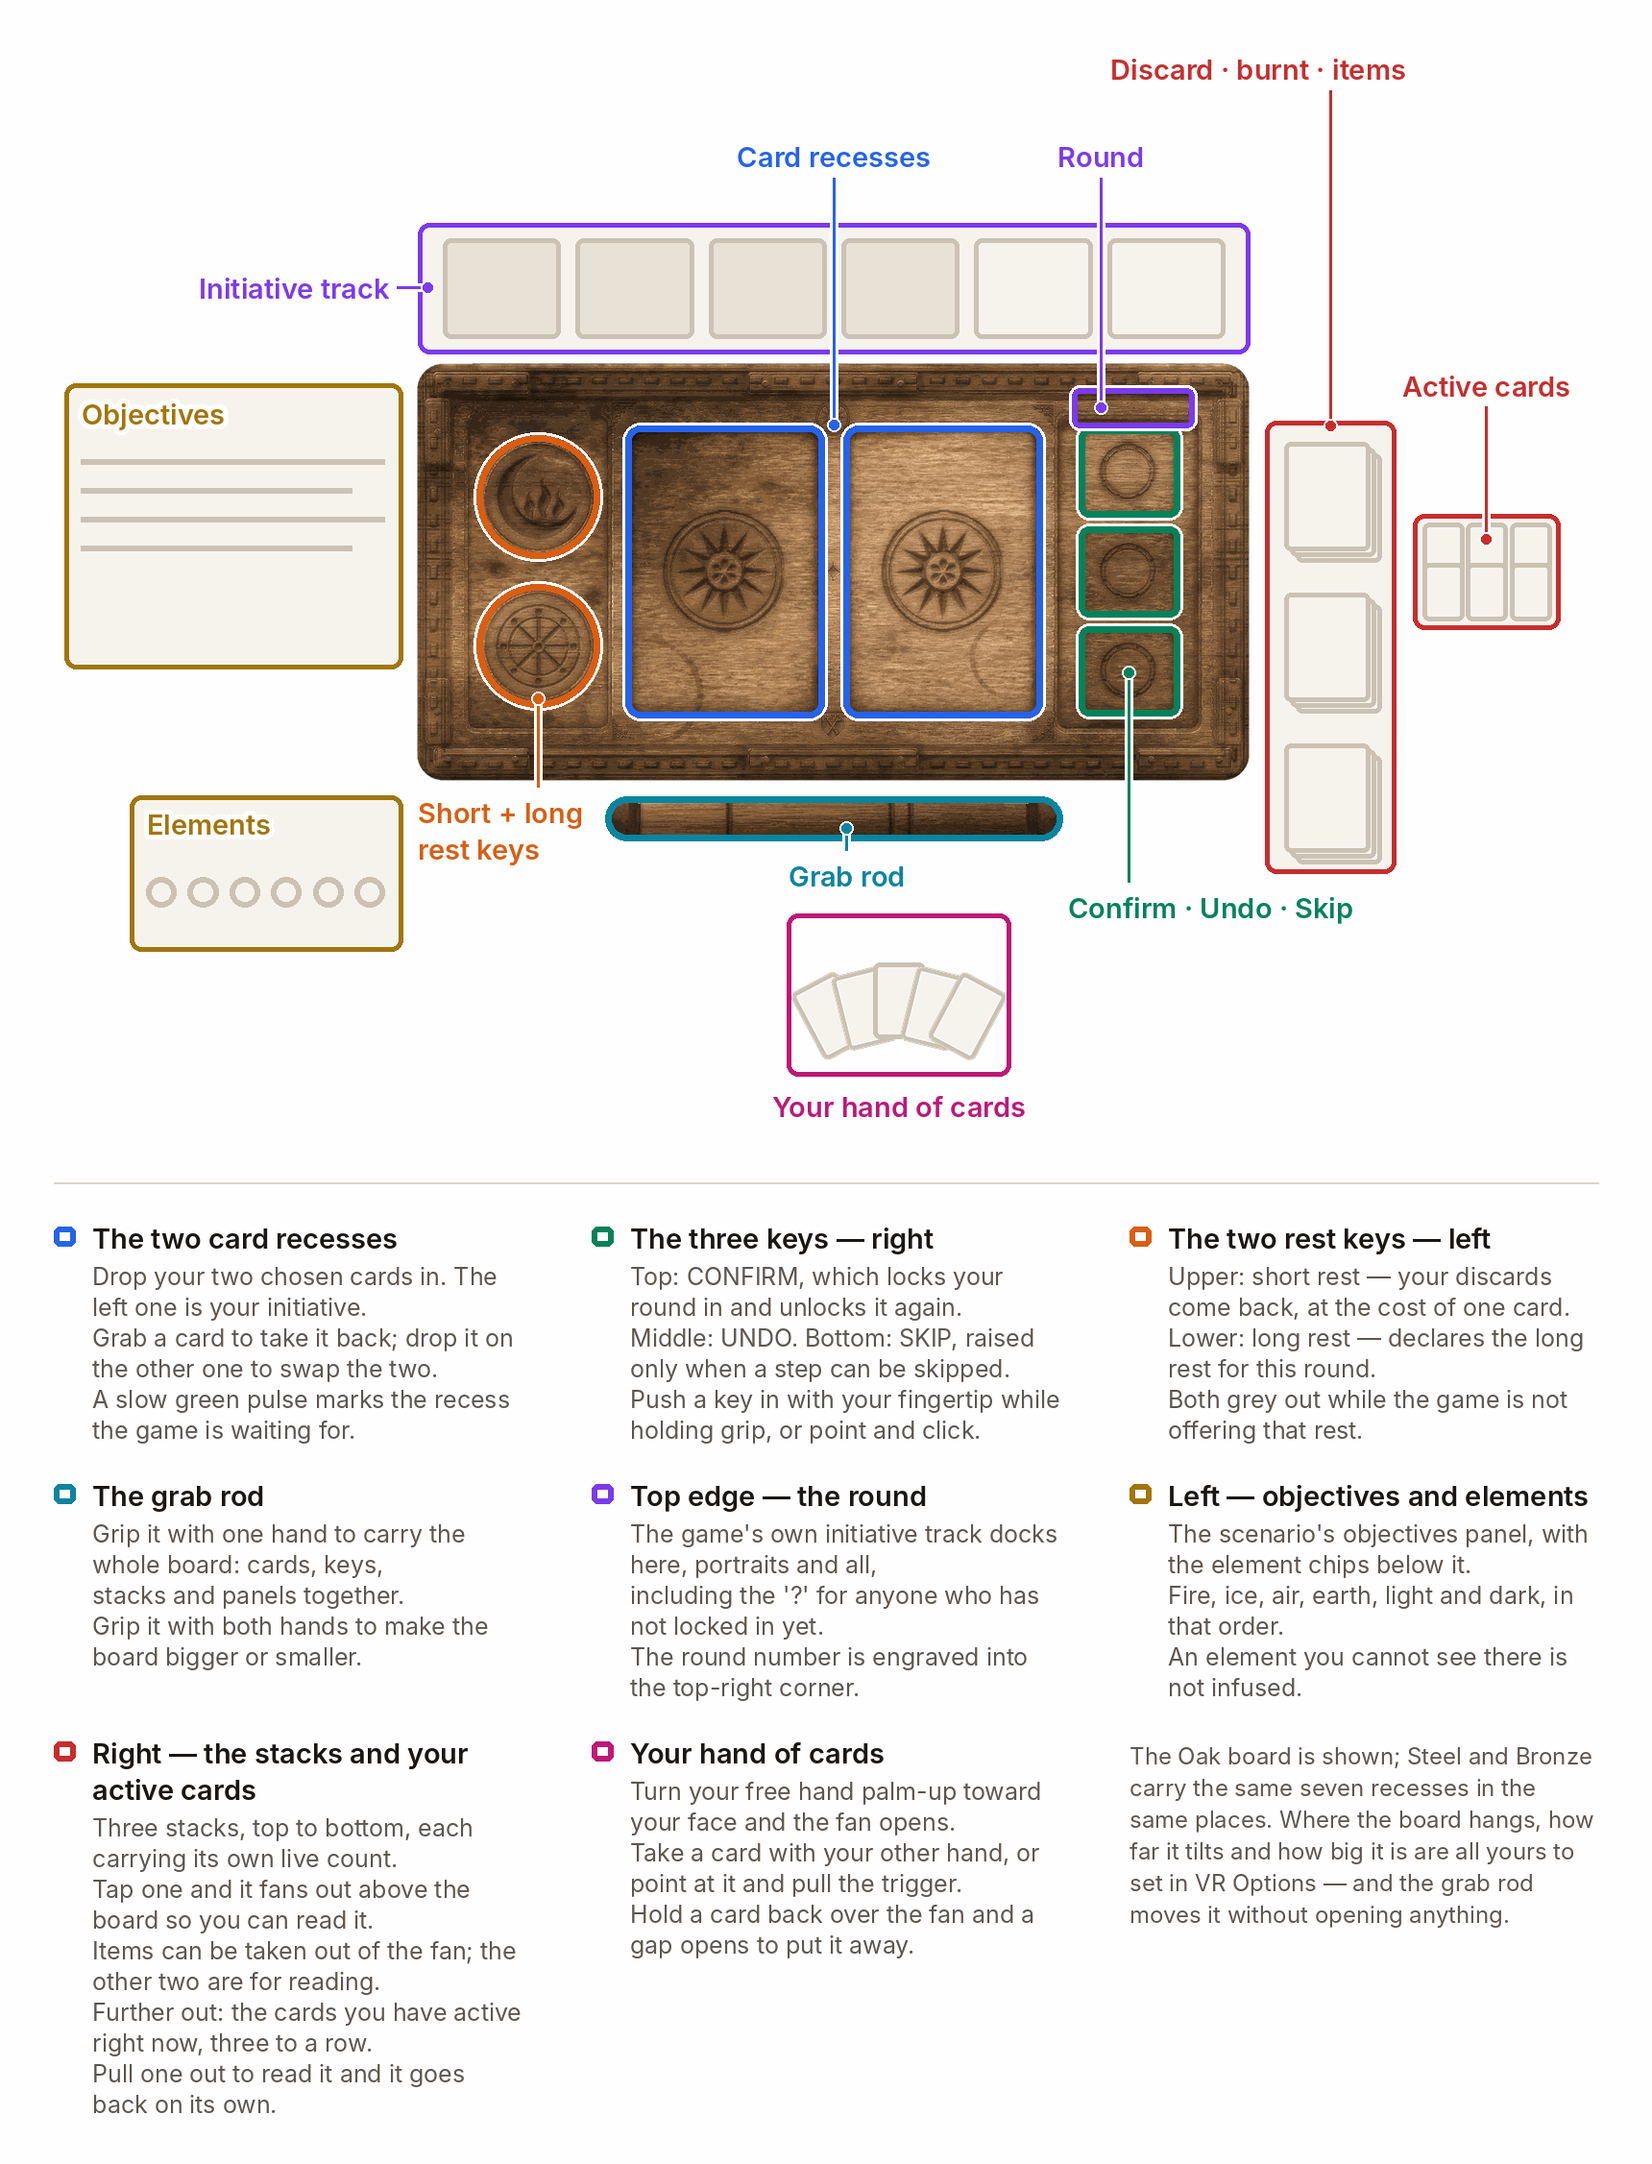
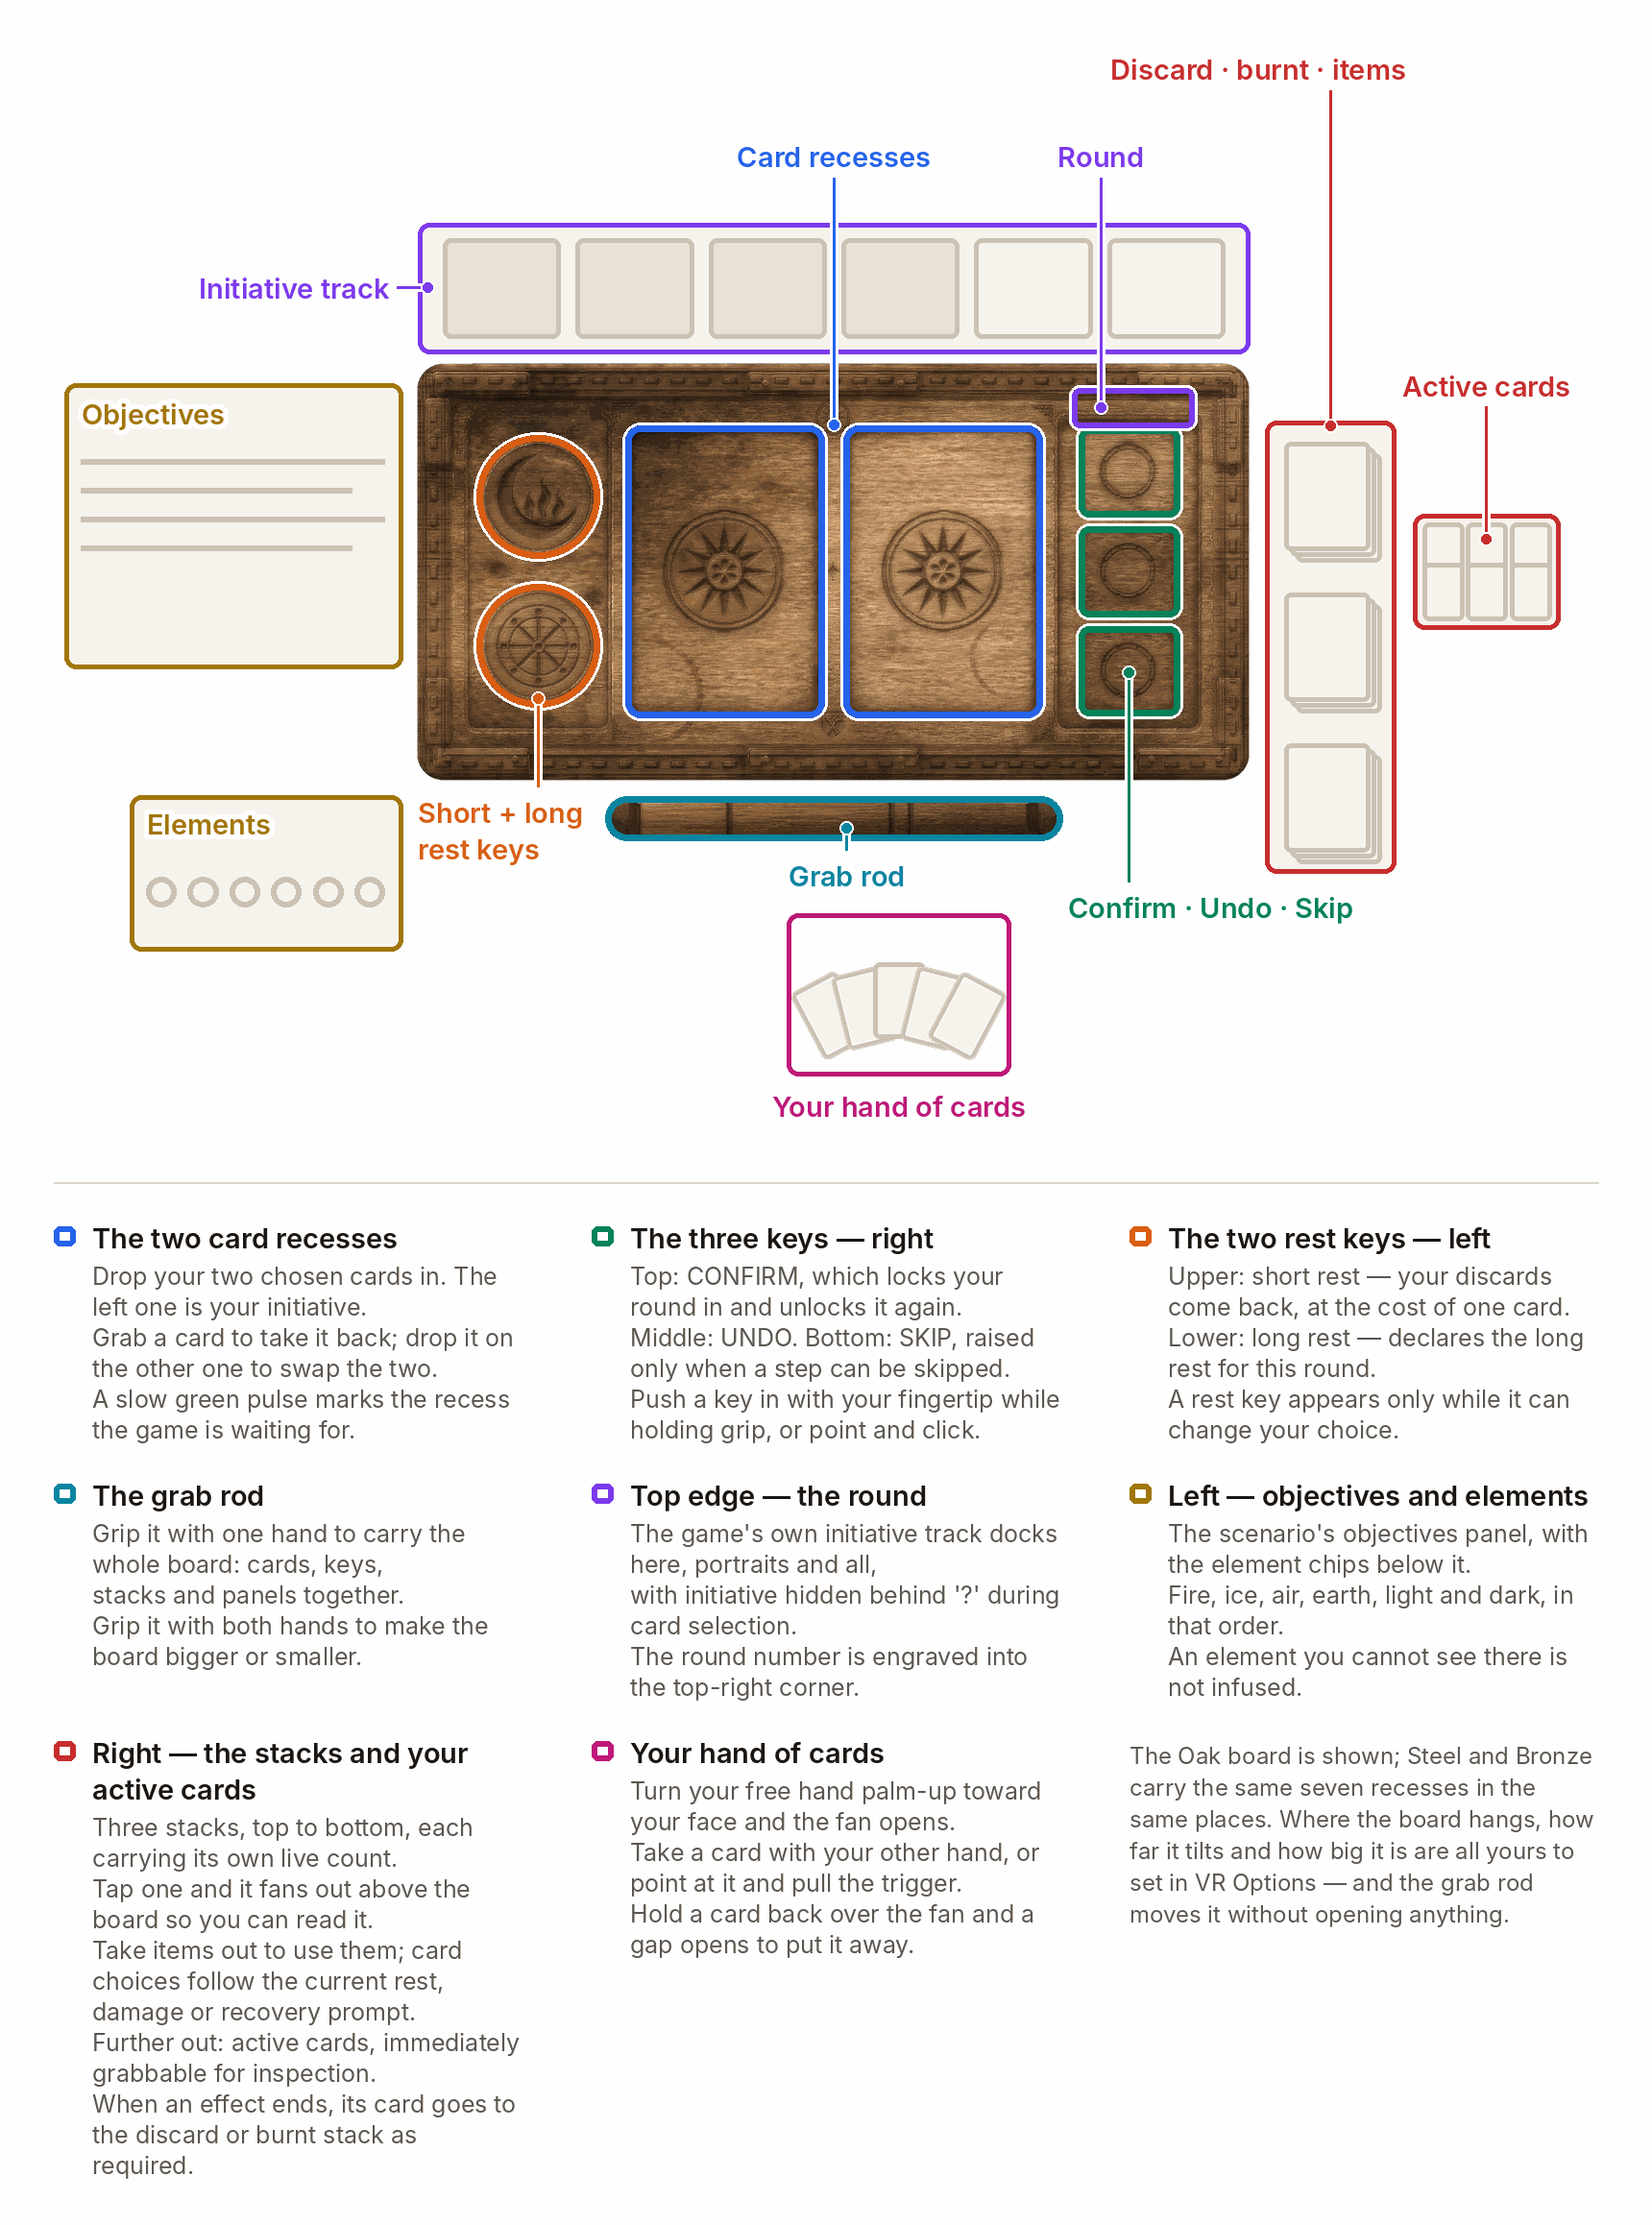
docs: refresh board diagram rest and card lifecycle captions
Rest buttons appear only while usable; active cards can be inspected immediately and leave for the correct pile when effects end. Describe prompt-driven rest, damage and recovery choices, and stable hidden initiative during selection. EN/DE geometry preflight, visual inspection, repeat-generation consistency and docs i18n check pass.

diff --git a/docs/img/build-board-diagram.py b/docs/img/build-board-diagram.py
@@ -454,11 +454,11 @@ LABELS = {
                 "Middle: UNDO. Bottom: SKIP, raised only when a step can be skipped.",
                 "Push a key in with your fingertip while holding grip, or point and click.",
             ]),
-            # Cards/Caps/RestControls.cs:6-30 and :83-200.
+            # RestControls.Update: visibility is offered && canShort/canLong, not disabled styling.
             (ORANGE, "The two rest keys — left", [
                 "Upper: short rest — your discards come back, at the cost of one card.",
                 "Lower: long rest — declares the long rest for this round.",
-                "Both grey out while the game is not offering that rest.",
+                "A rest key appears only while it can change your choice.",
             ]),
             # Cards/Tray/PlayTray.1.Core.cs:1158-1273 (BuildHandle), :1043-1075 (carry).
             (CYAN, "The grab rod", [
@@ -470,7 +470,7 @@ LABELS = {
             # PlayTray.3.Pose.cs:571 (the round readout).
             (PURPLE, "Top edge — the round", [
                 "The game's own initiative track docks here, portraits and all,",
-                "including the '?' for anyone who has not locked in yet.",
+                "with initiative hidden behind '?' during card selection.",
                 "The round number is engraved into the top-right corner.",
             ]),
             # PlayTray.1.Core.cs:903-921, PlayTray.3.Pose.cs:512-518,
@@ -482,13 +482,14 @@ LABELS = {
             ]),
             # Cards/Piles/PileViewer.cs:212-243 and :1005-1025, PileBrowser.cs:9-27,
             # Piles/ItemsPile.cs:14-55.
-            # Cards/Piles/ActivePileViewer.cs (the matrix), PlayTray.3.Pose.cs:506 (its mount).
+            # ActivePileViewer / CardsDriver.4.Rebuild: immediate inspection; RoundCardExit routes
+            # completed effects to their actual pile. Modal choices follow CardsDriver.6.Flows.
             (RED, "Right — the stacks and your active cards", [
                 "Three stacks, top to bottom, each carrying its own live count.",
                 "Tap one and it fans out above the board so you can read it.",
-                "Items can be taken out of the fan; the other two are for reading.",
-                "Further out: the cards you have active right now, three to a row.",
-                "Pull one out to read it and it goes back on its own.",
+                "Take items out to use them; card choices follow the current rest, damage or recovery prompt.",
+                "Further out: active cards, immediately grabbable for inspection.",
+                "When an effect ends, its card goes to the discard or burnt stack as required.",
             ]),
             # Cards/CardFan.cs, Hands/Interact/PalmGate.cs,
             # CardsDriver.2.Update.cs:1219-1300 (the gate), .3.Laser.cs:150-177 (the pluck).
@@ -534,7 +535,7 @@ LABELS = {
             (ORANGE, "Die beiden Rast-Tasten — links", [
                 "Oben: kurze Rast — deine abgeworfenen Karten kommen zurück, eine bleibt weg.",
                 "Unten: lange Rast — meldet die lange Rast für diese Runde an.",
-                "Beide werden blass, solange das Spiel diese Rast nicht anbietet.",
+                "Eine Rast-Taste erscheint nur, wenn sie deine Auswahl ändern kann.",
             ]),
             (CYAN, "Die Greifstange", [
                 "Mit einer Hand greifen trägt das ganze Brett: Karten, Tasten,",
@@ -542,8 +543,8 @@ LABELS = {
                 "Mit beiden Händen greifen macht das Brett größer oder kleiner.",
             ]),
             (PURPLE, "Obere Kante — die Runde", [
-                "Hier dockt die Initiativleiste des Spiels selbst an, mit allen Porträts,",
-                "samt dem '?' für alle, die sich noch nicht festgelegt haben.",
+                "Hier dockt die Initiativleiste des Spiels mit den Porträts an.",
+                "In der Auswahlphase bleibt die Initiative hinter einem '?' verborgen.",
                 "Die Rundennummer ist oben rechts ins Brett eingraviert.",
             ]),
             (GOLD, "Links — Aufgaben und Elemente", [
@@ -554,9 +555,9 @@ LABELS = {
             (RED, "Rechts — die Stapel und deine aktiven Karten", [
                 "Drei Stapel von oben nach unten, jeder mit seiner eigenen Anzahl.",
                 "Tippe einen an, und er fächert sich über dem Brett zum Lesen auf.",
-                "Gegenstände kannst du herausnehmen; die anderen beiden sind zum Nachschauen.",
-                "Weiter außen: deine gerade aktiven Karten, drei pro Reihe.",
-                "Zieh eine heraus, um sie zu lesen — sie kehrt von selbst zurück.",
+                "Gegenstände herausnehmen und nutzen; Karten bei Rast, Schaden oder Rückgewinnung nach Aufforderung wählen.",
+                "Weiter außen: aktive Karten, sofort zum Nachschauen greifbar.",
+                "Endet ein Effekt, geht seine Karte je nach Ergebnis in die Ablage oder den Verbrannt-Stapel.",
             ]),
             (PINK, "Deine Handkarten", [
                 "Dreh deine freie Hand mit der Handfläche zu dir — der Fächer geht auf.",
